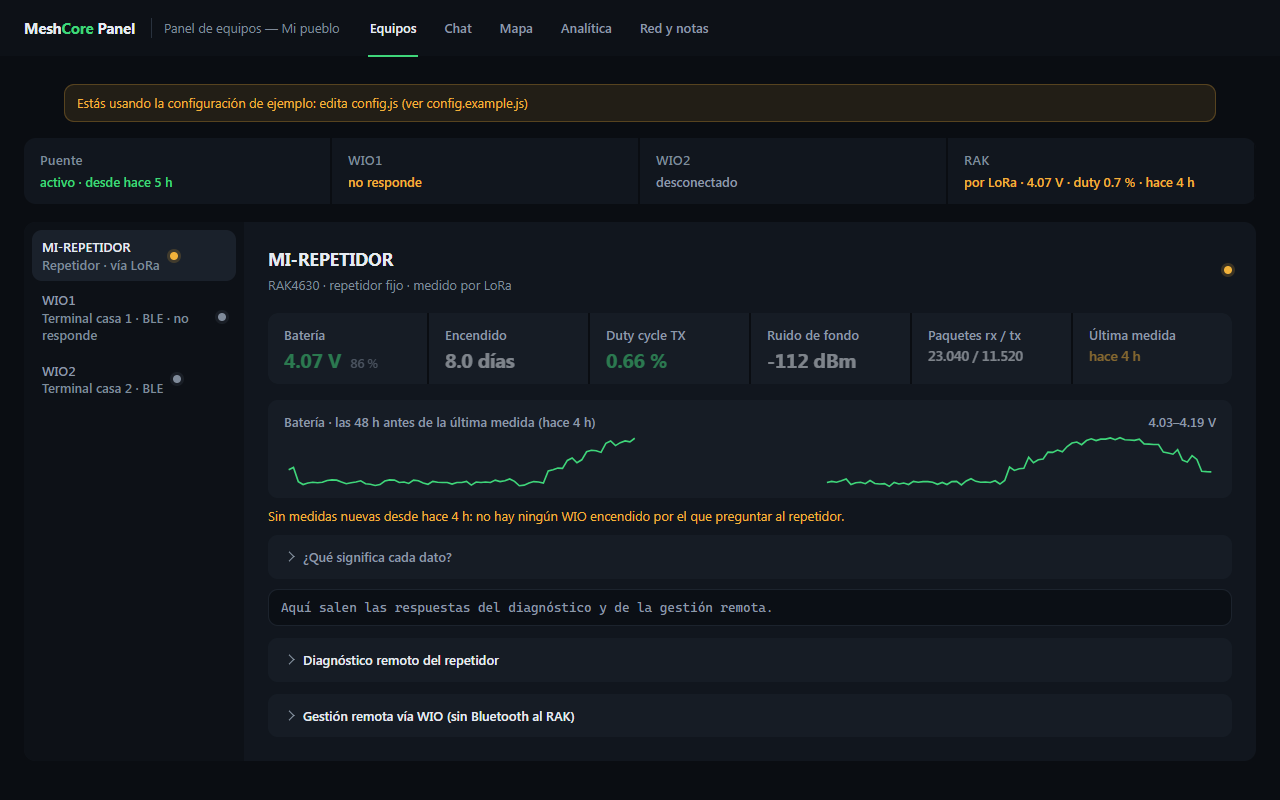
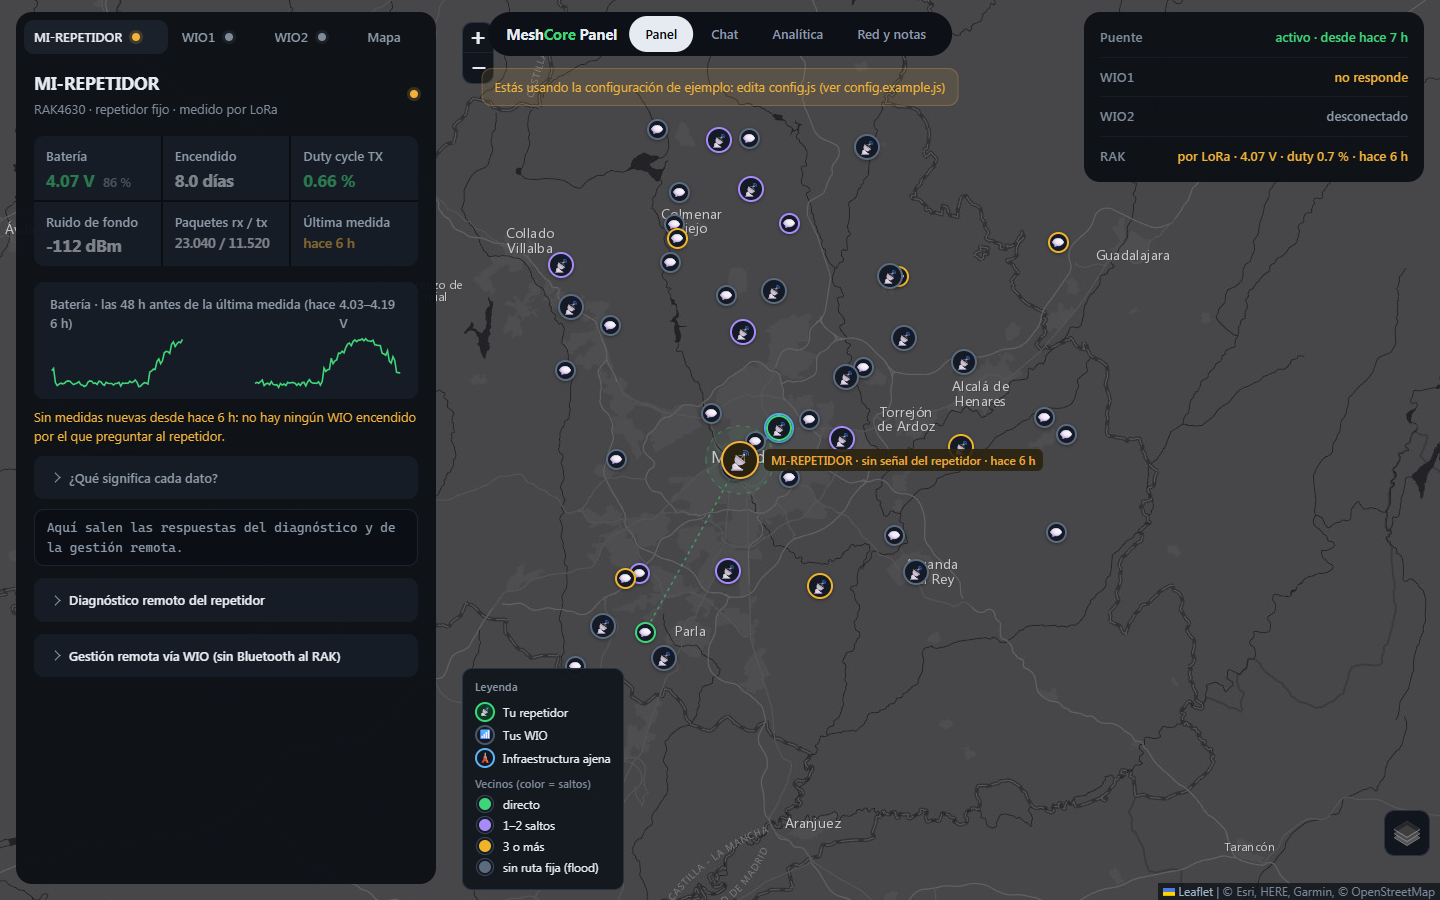
v1.13.0 a v1.16.0: Equipos y chat sobre el mapa
- Equipos y chat sobre el mapa
- Cabecera nueva y pastilla flotante sin barra superior
- Panel y mapa en uno
- El chat sitúa en el mapa a quien habla
- Aviso de repetidor sin señal

Incluye las versiones 1.13.0 a 1.16.0 (4 commits).

diff --git a/dashboard.html b/dashboard.html
@@ -616,6 +616,113 @@ p,.statsNote{max-width:75ch}
 .device-status{font-weight:500;font-size:13px;color:var(--dim);display:inline-block;max-width:60ch;vertical-align:middle;line-height:1.35}
 .device-status.mal{color:var(--warn)}
 @media (max-width:860px){#statusBar{gap:2px!important;background:var(--bg)!important} #statusBar>div:not(#keyReminder){background:var(--card);border:none!important}}
+/* ===== Equipos sobre el mapa (1.13) =====
+   El mapa llena la pestaña; repetidor/WIO y estado flotan encima.
+   Lo rápido se ve sin perder el mapa; nada tapa el mapa entero. */
+#tab-equipos.on{position:relative;margin:-28px calc(50% - 50vw) 0;width:100vw;overflow:hidden;padding:0;height:calc(100dvh - 57px)}
+#eqMap{position:absolute;inset:0;z-index:0;background:#0a0d12}
+#tab-equipos .equiposWrap{position:static;width:auto;margin:0;padding:0}
+#tab-equipos .equiposWrap .grid{position:absolute;top:16px;right:16px;width:340px;z-index:500;display:block;margin:0}
+#tab-equipos #statusBar{flex-direction:column!important;align-items:stretch!important;gap:0!important;background:rgba(13,17,22,.96)!important;border-radius:16px!important;padding:6px 16px!important}
+#tab-equipos #statusBar>div:not(#keyReminder){display:flex;justify-content:space-between;align-items:baseline;gap:12px;padding:9px 0!important;border:none!important;background:transparent!important;flex:none!important}
+#tab-equipos #statusBar>div:not(#keyReminder)+div{box-shadow:0 -1px 0 var(--raise)}
+#tab-equipos #statusBar b{font-size:13px;text-align:right}
+#tab-equipos .devWrap{position:absolute;top:16px;left:16px;bottom:16px;width:420px;z-index:500;margin:0;display:flex;flex-direction:column;background:rgba(13,17,22,.97)!important;border-radius:16px!important;overflow:hidden}
+#tab-equipos .devSidebar{width:100%;flex-direction:row;gap:4px;padding:8px;overflow-x:auto;background:transparent!important;flex-shrink:0}
+#tab-equipos .devTab{flex:1 0 auto;padding:8px 10px}
+#tab-equipos .devTab .devTabSub{display:none}
+#tab-equipos .devMain{flex:1;overflow:auto;padding:8px 18px 18px}
+#tab-equipos .metrics{grid-template-columns:repeat(3,1fr)!important}
+#tab-equipos .metric{padding:10px 12px}
+#tab-equipos .metric .v{font-size:17px}
+#tab-equipos #cfgAviso{position:absolute;z-index:600;bottom:16px;left:452px;margin:0!important;max-width:420px}
+.eqLeyenda{position:absolute;z-index:500;bottom:16px;right:16px;display:flex;gap:14px;background:rgba(13,17,22,.96);border-radius:12px;padding:9px 14px;font-size:13px;color:var(--dim)}
+.eqLeyenda i{display:inline-block;width:8px;height:8px;border-radius:50%;margin-right:6px;vertical-align:1px}
+.eqTag{background:rgba(13,17,22,.92)!important;color:var(--fg)!important;border:0!important;box-shadow:none!important;font-size:12px!important;padding:2px 7px!important;border-radius:6px!important}
+.eqTag::before{display:none}
+#eqMap .leaflet-control-attribution{background:rgba(13,17,22,.8);color:#6d7a88}
+#eqMap .leaflet-control-attribution a{color:#8592a0}
+.red-nav::after{display:none!important}
+/* Sin barra superior: marca y pestañas en una sola pastilla centrada que flota */
+header{position:fixed!important;top:12px!important;left:50%!important;transform:translateX(-50%);z-index:1200!important;
+  display:flex!important;align-items:center!important;gap:6px!important;padding:4px 4px 4px 18px!important;min-height:0!important;
+  background:rgba(13,17,22,.96)!important;border-radius:999px!important;border:none!important;width:auto!important;max-width:calc(100vw - 24px);flex-wrap:nowrap!important}
+header .sub,header .spacer{display:none!important}
+header h1{font-size:15px!important;margin-right:6px}
+header h1::before{display:none!important}
+header nav.tabs{background:transparent!important;margin:0!important;padding:0!important;border:none!important;width:auto!important}
+header nav.top a{border-radius:999px!important;padding:8px 14px!important;color:var(--dim)!important;text-decoration:none}
+.wrap{padding-top:28px}
+#tab-stats.on,#tab-red.on{padding-top:64px}
+#tab-equipos.on,#tab-chat.on{height:100dvh!important}
+#tab-equipos .devWrap,#tab-equipos .equiposWrap .grid{top:12px!important}
+#tab-chat .chatcard{top:72px!important}
+#tab-equipos>#map,#tab-chat>#map{position:absolute!important;inset:0!important;height:auto!important;z-index:0}
+#tab-equipos>#map .leaflet-top.leaflet-left{left:452px;top:12px}
+#tab-equipos>#map .leaflet-top.leaflet-right{top:auto;bottom:44px}
+#tab-equipos>#map .leaflet-bottom.leaflet-left{left:452px}
+#tab-chat>#map .leaflet-top.leaflet-left{top:12px;left:0}
+#tab-chat>#map .leaflet-bottom.leaflet-left{left:0}
+#tab-equipos #cfgAviso{top:68px!important;bottom:auto!important;left:50%!important;transform:translateX(-50%);max-width:520px}
+#tab-chat>#map .leaflet-top.leaflet-right{display:none}
+#tab-chat .msg.in{cursor:pointer}
+.popChat .leaflet-popup-content{font-size:13px}
+#devpanel-mapa{padding-top:4px}
+#devpanel-mapa .mapQuick{display:flex;gap:8px}
+@media (max-width:860px){
+  header{top:8px!important;padding:3px!important}
+  header h1,header nav.top{display:none!important}
+  header nav.tabs{overflow-x:auto;scrollbar-width:none}
+  #tab-equipos.on,#tab-chat.on{height:100dvh!important}
+  #tab-equipos #cfgAviso{top:56px!important}
+  #tab-equipos .devWrap,#tab-chat .chatcard{top:auto!important}
+  #tab-equipos>#map .leaflet-top.leaflet-left,#tab-chat>#map .leaflet-top.leaflet-left{display:none}
+  #tab-equipos #cfgAviso{top:56px!important;left:12px!important;right:12px;transform:none;max-width:none}
+  #tab-equipos>#map .leaflet-bottom.leaflet-left{display:none}
+  #tab-equipos>#map .leaflet-top.leaflet-right{top:52px;bottom:auto}
+}
+/* Barras laterales flotantes (Mapa y Red y notas), como los paneles de Equipos */
+@media (min-width:861px){
+  .mapWrap{position:relative!important;display:block!important}
+  #map{position:absolute!important;inset:0!important;height:auto!important}
+  .mapSidebar{position:absolute!important;top:72px;left:16px;bottom:16px;width:280px!important;z-index:500;border-radius:16px!important;border:none!important;background:rgba(13,17,22,.96)!important;overflow-y:auto}
+  #map .leaflet-top.leaflet-left{left:304px;top:62px}
+  #map .leaflet-top.leaflet-right{top:62px}
+  #map .leaflet-bottom.leaflet-left{left:304px}
+  .redSidebar{position:sticky!important;top:72px!important;margin:72px 0 16px 16px;border-radius:16px;border:none!important;max-height:calc(100dvh - 88px)}
+}
+.eqAviso{background:#2a2210!important;color:#f2b23a!important;font-weight:600}
+/* Cabecera del diseño nuevo: pestañas en pastillas, la activa resaltada */
+header{background:var(--bg2)!important;border-bottom:none!important}
+nav.tabs{background:var(--raise)!important;border-radius:999px!important;padding:4px!important;margin:0 auto!important;align-self:center!important;gap:2px!important}
+nav.tabs button{height:36px!important;line-height:36px!important;padding:0 16px!important;border-radius:999px!important;color:var(--dim)!important}
+nav.tabs button.on{background:var(--fg)!important;color:var(--bg)!important}
+nav.tabs button.on::after{display:none!important}
+nav.tabs button:hover:not(.on){background:var(--hover)!important;color:var(--fg)!important}
+nav.tabs button .badge2{margin-left:6px}
+/* Chat sobre el mapa: el mapa de fondo y la conversación flotando a la derecha */
+#tab-chat.on{position:relative;margin:-28px calc(50% - 50vw) 0;width:100vw;overflow:hidden;padding:0;height:calc(100dvh - 57px)}
+#tab-chat .grid{display:block;margin:0}
+#tab-chat .chatcard{position:absolute!important;top:16px;right:16px;bottom:16px;left:auto;width:min(720px,calc(100% - 32px))!important;height:auto!important;max-width:none!important;margin:0!important;z-index:500;background:rgba(13,17,22,.97)!important;border-radius:16px!important;padding:16px!important}
+#tab-chat .chatcard.chat-full{left:16px;width:auto!important}
+#tab-chat #chatBox{padding:8px 4px!important}
+#tab-chat .chatComposer{margin:8px 0 0!important}
+#tab-chat .eqLeyenda{right:auto;left:16px}
+#tab-chat #chatContacts{background:transparent!important;padding:0 12px 0 0!important}
+#tab-chat .chatHeadTxt .cardsub{display:none}
+@media (max-width:860px){
+  #tab-chat.on{height:calc(100dvh - 96px)}
+  #tab-chat .chatcard{top:auto;left:0;right:0;bottom:0;width:auto!important;height:78%!important;background:var(--panel,#0d1116)!important;border-radius:20px 20px 0 0!important}
+  nav.tabs{border-radius:999px!important;margin:4px 0 8px!important;width:auto!important}
+  nav.tabs button{height:34px!important;padding:0 12px!important;flex:0 0 auto!important}
+}
+@media (max-width:860px){
+  #tab-equipos.on{height:calc(100dvh - 96px)}
+  #tab-equipos .equiposWrap .grid{display:none}
+  #tab-equipos .devWrap{top:auto;left:0;right:0;bottom:0;width:auto;max-height:62%;border-radius:20px 20px 0 0!important}
+  #tab-equipos #cfgAviso{left:12px;right:12px;top:12px;bottom:auto;max-width:none}
+  .eqLeyenda{display:none}
+}
 .sub,#cfgAviso,.pctBat,dt,dd,pre.loglet,button,.quick-rak-cmd,footer,#panelVersion,.linklike{font-size:13px!important}
 @media (max-width:860px){nav.tabs{border-top:none!important;background:var(--bg)} .devSidebar{border-bottom:none!important} #statusBar>div:not(#keyReminder){border-bottom:2px solid var(--bg)!important;border-right:none!important}}
 @media (max-width:860px){#chatContacts{display:none}}
@@ -650,7 +757,7 @@ footer{color:var(--dim2)}
   <h1 id="cfg-titulo">Mesh<span>Core</span> Panel</h1>
   <span class="sub" id="cfg-subtitulo">Panel de equipos</span>
   <nav class="tabs">
-    <button class="on" data-tab="equipos">Equipos</button>
+    <button class="on" data-tab="equipos">Panel</button>
     <button data-tab="chat">Chat<span class="badge2" id="chatBadge" style="display:none">0</span></button>
     <button data-tab="mapa">Mapa</button>
         <button data-tab="stats">Analítica</button>
@@ -663,6 +770,8 @@ footer{color:var(--dim2)}
 
 <div class="wrap">
   <section class="tabview on" id="tab-equipos">
+    <div id="eqMap" aria-label="Mapa de tus equipos y vecinos"></div>
+    <div class="eqLeyenda" aria-hidden="true"><span><i style="background:#3fd67a"></i>directo</span><span><i style="background:#a78bfa"></i>1–2 saltos</span><span><i style="background:#f0b429"></i>3+</span><span><i style="background:#5c6b7d"></i>sin ruta</span></div>
     <div id="cfgAviso" hidden style="border:1px solid #e0b04a;border-radius:8px;padding:6px 10px;margin-bottom:10px;font-size:12px;color:#e0b04a">Estás usando la configuración de ejemplo: edita config.js (ver config.example.js)</div>
   <div class="equiposWrap">
   <div class="grid">
@@ -935,7 +1044,7 @@ footer{color:var(--dim2)}
         <div id="ccLista"></div>
       </aside>
       <div id="chatBox">
-        <div class="msg sys">Conecta un WIO (pestaña Equipos) para leer y enviar mensajes.</div>
+        <div class="msg sys">Conecta un WIO (pestaña Panel) para leer y enviar mensajes.</div>
       </div>
       </div>
       <div class="chatComposer">
@@ -1213,7 +1322,7 @@ footer{color:var(--dim2)}
         <button id="btn-scan-w1">Analizar vía WIO1</button>
         <button id="btn-scan-w2">Analizar vía WIO2</button>
       </div>
-      <pre class="loglet" id="neighborsResult" style="display:none">Conecta un WIO (pestaña Equipos) y pulsa "Analizar" para ver qué nodos y repetidores ve tu radio, y a cuántos saltos está cada uno.</pre>
+      <pre class="loglet" id="neighborsResult" style="display:none">Conecta un WIO (pestaña Panel) y pulsa "Analizar" para ver qué nodos y repetidores ve tu radio, y a cuántos saltos está cada uno.</pre>
     </div>
 
   </div>
@@ -1311,7 +1420,7 @@ const CFG=Object.assign({
 }, window.PANEL_CONFIG||{});
 const REPEATER_POS=[CFG.repetidor.lat, CFG.repetidor.lon];
 const REP_NOMBRE=CFG.repetidor.nombre;
-const PANEL_VERSION='1.12.1';
+const PANEL_VERSION='1.16.0';
 $('#panelVersion').textContent='v'+PANEL_VERSION;
 // Sin config.js propio el panel funciona, pero con nombres de ejemplo que no
 // cuadran con ninguna radio: avisarlo para que no parezca un fallo.
@@ -1368,10 +1477,18 @@ const wNodes={1:null,2:null};
 // ============ Pestañas ============
 let unreadChat=0;
 function showTab(name){
+  if(name==='mapa'){ name='equipos'; setTimeout(()=>document.querySelector('.devTab[data-dev="mapa"]')?.click(),0); }
   document.querySelectorAll('nav.tabs button').forEach(b=>b.classList.toggle('on',b.dataset.tab===name));
   document.querySelectorAll('.tabview').forEach(v=>v.classList.toggle('on',v.id==='tab-'+name));
   if(name==='chat'){ unreadChat=0; updateChatBadge(); fitChatCardToViewport(); }
   if(name==='mapa') fitMapWrapToViewport();
+  // Un solo mapa (el completo, con sus capas y herramientas): vive en el
+  // Panel y se lleva al Chat cuando se abre.
+  if(name==='equipos'||name==='chat'){
+    const destino=document.getElementById('tab-'+name), m=$('#map');
+    if(m && m.parentNode!==destino) destino.prepend(m);
+    setTimeout(pintarEqMap,30);
+  }
   if(name==='stats'){ renderStats(); pintarHistoricoRak(); }
   try{ history.replaceState(null,'',name==='equipos'?location.pathname+location.search:'#'+name); }catch(e){}
 }
@@ -1748,7 +1865,7 @@ async function scanNeighbors(idx){
   const mapStatus=$('#neighborsMapStatus');
   const n=wNodes[idx];
   if(!n||!n.device||!n.device.gatt.connected){
-    out.textContent='WIO'+idx+' no conectado. Conéctalo en la pestaña Equipos primero.';
+    out.textContent='WIO'+idx+' no conectado. Conéctalo en la pestaña Panel primero.';
     if(mapStatus) mapStatus.textContent='WIO'+idx+' no conectado';
     return;
   }
@@ -2643,7 +2760,7 @@ $('#chatClear').onclick=()=>{
   if(!confirm('¿Borrar todo el historial de chat guardado en este navegador? No afecta a los mensajes en los nodos.')) return;
   saveChatLog([]);
   seenMsgs.clear();
-  $('#chatBox').innerHTML='<div class="msg sys">Conecta un WIO (pestaña Equipos) para leer y enviar mensajes.</div>';
+  $('#chatBox').innerHTML='<div class="msg sys">Conecta un WIO (pestaña Panel) para leer y enviar mensajes.</div>';
   delete $('#chatBox').dataset.lastDay;
 };
 // ==================== ANALITICA DE RADIO ====================
@@ -3157,6 +3274,71 @@ $('#ccLista').addEventListener('click',e=>{
   chatAdd('sys',null,'No tengo a '+n+' en los contactos: escanea vecinos en el Mapa para poder contestarle.','',false);
 });
 $('#ccBuscar').addEventListener('input',pintarContactos);
+
+// Panel y mapa en uno (1.16): el mapa completo vive en el Panel, sus capas y
+// herramientas pasan a la pestaña «Mapa» del panel izquierdo y se quita la
+// pestaña Mapa de arriba. Se mueven los mismos nodos: sus manejadores siguen.
+(function unirMapaAlPanel(){
+  const panel=document.createElement('div'); panel.className='devPanel'; panel.id='devpanel-mapa';
+  $('#devpanel-w2').after(panel);
+  const sb=$('.mapSidebar');
+  if(sb){ while(sb.firstChild) panel.appendChild(sb.firstChild); sb.remove(); }
+  $('#mapHint')?.remove();
+  $('#btn-map-fullscreen')?.remove();
+  const btn=document.createElement('button'); btn.className='devTab'; btn.dataset.dev='mapa';
+  btn.innerHTML='<span class="devTabIcon">🗺</span><span class="devTabInfo"><span class="devTabName">Mapa</span><span class="devTabSub">capas y herramientas</span></span>';
+  $('.devSidebar').appendChild(btn);
+  btn.addEventListener('click',()=>{
+    document.querySelectorAll('.devTab').forEach(x=>x.classList.toggle('on',x===btn));
+    document.querySelectorAll('.devPanel').forEach(x=>x.classList.toggle('on',x===panel));
+    try{ localStorage.setItem('meshcore-devtab','mapa'); }catch(e){}
+  });
+  try{ if(localStorage.getItem('meshcore-devtab')==='mapa') btn.click(); }catch(e){}
+  $('#tab-equipos').prepend($('#map'));
+  $('#eqMap')?.remove(); $('.eqLeyenda')?.remove();
+  document.querySelector('nav.tabs button[data-tab="mapa"]')?.remove();
+})();
+
+let avisoRak=null;
+function pintarEqMap(){
+  if(typeof map==='undefined' || !$('#map').offsetParent) return;
+  map.invalidateSize();
+  const est=window.rakEstado, sinRak=!est||est.vieja;
+  if(avisoRak){ map.removeLayer(avisoRak); avisoRak=null; }
+  if(sinRak){
+    avisoRak=L.marker(REPEATER_POS,{icon:mapPin('📡',38,'#2a2210','#f2b23a'),zIndexOffset:2000,interactive:false}).addTo(map)
+      .bindTooltip(esc(REP_NOMBRE)+' · sin señal del repetidor'+(est&&est.at?' · '+esc(humanAgo(est.at*1000)):''),
+        {permanent:true,direction:'right',className:'eqTag eqAviso',offset:[18,0]});
+  }
+  if(!map._centradoPanel){
+    // Encuadre inicial: tu zona (repetidor, WIO, vecinos a menos de 30 km).
+    const pts=[REPEATER_POS];
+    if(w1Marker) pts.push(w1Marker.getLatLng());
+    if(w2Marker) pts.push(w2Marker.getLatLng());
+    layerNeighbors.eachLayer(m=>{ if(m.getLatLng && distKm(REPEATER_POS,[m.getLatLng().lat,m.getLatLng().lng])<=30) pts.push(m.getLatLng()); });
+    const ancho=window.innerWidth>860;
+    map.fitBounds(L.latLngBounds(pts).pad(.2),ancho?{paddingTopLeft:[450,40],paddingBottomRight:[360,60],maxZoom:13}:{paddingBottomRight:[0,Math.round(window.innerHeight*.45)],maxZoom:13});
+    map._centradoPanel=true;
+  }
+}
+window.addEventListener('resize',()=>{ if(typeof map!=='undefined') map.invalidateSize(); });
+window.addEventListener('load',()=>setTimeout(pintarEqMap,300));
+setInterval(pintarEqMap,60000);
+
+// Chat: pulsar un mensaje sitúa en el mapa al nodo que lo envió.
+$('#chatBox').addEventListener('click',e=>{
+  const b=e.target.closest('.msg.in'); if(!b) return;
+  const nombre=(b.querySelector('.who b')?.textContent||'').trim(); if(!nombre) return;
+  let c=null;
+  for(const i of [1,2]){ const d=loadNeighbors(i); c=c||((d&&d.contacts)||[]).find(x=>x.name===nombre&&(x.lat||x.lon)); }
+  if(!c){ chatAdd('sys',null,nombre+' no anuncia su posición: no se puede situar en el mapa.','',false); return; }
+  const z=Math.max(map.getZoom(),12), ancho=window.innerWidth>860;
+  const off=ancho?[Math.min(720,window.innerWidth-32)/2,0]:[0,Math.round(window.innerHeight*.33)];
+  map.flyTo(map.unproject(map.project([c.lat,c.lon],z).add(off),z),z,{duration:.8});
+  const saltos=c.hops==null?'sin ruta fija':c.hops===0?'directo':c.hops+(c.hops===1?' salto':' saltos');
+  L.popup({className:'popChat',autoPan:false}).setLatLng([c.lat,c.lon])
+    .setContent('<b>'+esc(nombre)+'</b><br>'+saltos+' · '+distKm(REPEATER_POS,[c.lat,c.lon]).toFixed(1)+' km de tu repetidor').openOn(map);
+});
 $('#chatChan').addEventListener('change',()=>{
   const v=$('#chatChan').value;
   if(v.startsWith('p:')){ const c=contactosChat().find(x=>x.pubkey.startsWith(v.slice(2))); if(c) elegirDestino(c); }
@@ -3312,6 +3494,9 @@ async function pintarRakVivo(){
     $('#rl-pkts').textContent=s.nb_recv.toLocaleString()+' / '+s.nb_sent.toLocaleString();
     $('#rl-when').textContent=humanAgo(s.at*1000);
     const vieja = Date.now()/1000 - s.at > 3600;
+    const antes = window.rakEstado && window.rakEstado.vieja;
+    window.rakEstado = {vieja, at:s.at};
+    if(antes!==vieja && typeof pintarEqMap==='function') pintarEqMap();
     $('#rl-when').className='v '+(vieja?'mid':'');
     // Con la medida vieja los valores se atenuan: un 90 % en verde de hace
     // tres dias parecia el estado de ahora.
@@ -3385,7 +3570,7 @@ $('#chatPull').onclick=async()=>{
 function updateListening(){
   const ns=connectedNodes();
   const note=$('#chatNote');
-  if(!ns.length){ note.textContent='Ningún WIO conectado. Conéctalos en la pestaña Equipos.'; return; }
+  if(!ns.length){ note.textContent='Ningún WIO conectado. Conéctalos en la pestaña Panel.'; return; }
   note.textContent='Escuchando en: '+ns.map(n=>n.info?n.info.name:'nodo').join(', ')+
                    ' · máx. 130 caracteres · se envía por el nodo del desplegable';
 }

diff --git a/bridge/meshcore_ble_gateway.py b/bridge/meshcore_ble_gateway.py
@@ -90,7 +90,7 @@ def politica_cli(cmd: str, confirmed: bool):
         return 409, f'CONFIRMAR: {info.cli} - {info.note or info.label}'
     return None
 
-PANEL_VERSION = '1.12.1'
+PANEL_VERSION = '1.16.0'
 PORT = int(os.getenv('MESHCORE_BLE_GATEWAY_PORT', '8780'))
 # 0.0.0.0 por defecto porque el relay del PC entra por la LAN. Si el relay
 # corre en la propia Pi, MESHCORE_BIND=127.0.0.1 deja el puerto solo para nginx.

diff --git a/CHANGELOG.md b/CHANGELOG.md
@@ -3,6 +3,51 @@
 Formato basado en [Keep a Changelog](https://keepachangelog.com/es-ES/1.1.0/) y versiones
 según [SemVer](https://semver.org/lang/es/).
 
+## [1.16.0] - 2026-10-18
+
+### Cambiado
+- Panel y mapa en uno: el mapa completo (capas, líneas de enlace, traceroute)
+  es el fondo del Panel, y sus capas y herramientas (vecinos por radio,
+  análisis de enlace, alcance, herramientas) están en la pestaña «Mapa» del
+  panel izquierdo. Se quita la pestaña Mapa de arriba.
+- Los paneles laterales suben a la altura de la pastilla superior; en el
+  teléfono el panel es una hoja inferior y se quitan controles que estorban.
+- Chat: pulsar un mensaje lleva el mapa al nodo que lo envió (saltos y
+  distancia a tu repetidor); si no anuncia posición, el chat lo dice.
+
+## [1.15.0] - 2026-10-18
+
+### Cambiado
+- Sin barra superior: la marca y las pestañas van en una pastilla centrada
+  que flota sobre el contenido; fuera el subtítulo.
+- La pestaña Equipos pasa a llamarse Panel.
+- Barras laterales flotantes en Mapa y Red y notas, como los paneles del
+  Panel; el chat integra su lista de canales y contactos sin caja dentro de
+  caja.
+
+## [1.14.0] - 2026-10-18
+
+### Cambiado
+- Chat sobre el mapa: el mismo mapa de Equipos de fondo y la conversación
+  (canales, privados y contactos) flotando a la derecha; en el móvil, hoja
+  inferior.
+- Cabecera del diseño nuevo: pestañas en pastillas, la activa resaltada.
+- Si el repetidor lleva más de una hora sin medirse, en el mapa su icono y su
+  etiqueta pasan a ámbar («sin señal del repetidor · hace X») y las líneas a
+  los vecinos se vuelven grises y discontinuas.
+
+### Corregido
+- En Red y notas los enlaces de la barra lateral ya no muestran interruptores.
+
+## [1.13.0] - 2026-10-18
+
+### Cambiado
+- Equipos sobre el mapa: el mapa (mismos fondos de Esri e iconos) llena la
+  pestaña con el repetidor, los WIO y los vecinos coloreados por saltos, y
+  encima flotan el panel del repetidor/WIO (con su diagnóstico y gestión
+  remota de siempre), el estado y la leyenda. En el móvil el panel es una
+  hoja inferior. El mapa completo con sus herramientas sigue en Mapa.
+
 ## [1.12.1] - 2026-10-17
 
 ### Quitado

diff --git a/README.md b/README.md
@@ -54,7 +54,7 @@ navegador ──HTTPS──> nginx (TLS + login) ──> gateway :8780 (Raspberr
 - El **relay** corre en un PC con Bluetooth cerca de los companion y es su único dueño.
 - El **repetidor** se gestiona por LoRa a través de un companion: no necesita Bluetooth.
 
-Versión actual: 1.12.1**1.0.0** · cambios en [`CHANGELOG.md`](CHANGELOG.md).
+Versión actual: 1.16.0**1.0.0** · cambios en [`CHANGELOG.md`](CHANGELOG.md).
 
 ## Requisitos
 
